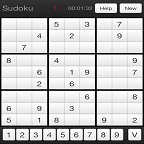
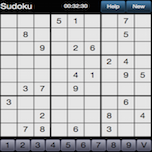
1.0.0

diff --git a/app/sass/sass/_sudoku.scss b/app/sass/sass/_sudoku.scss
@@ -2,7 +2,12 @@
 $width: 316px;
 //$width: 500px;
 $border-width: 1px;
-$font-size: $width / 9 * 0.45;
+$font-size: $width / 9 * 0.55;
+
+$color-primary: #2C506E;
+$color-secondar: #747690;
+$color-light: darken(white, 10%);
+$color-error: #812500;
 
 // Reset
 body, div, li, ul {
@@ -14,7 +19,7 @@ body, div, li, ul {
 @mixin btn($bg-color, $color: black) {
     background: linear-gradient(lighten($bg-color, 20%), darken($bg-color, 20%));    
     border: solid $border-width  $bg-color;
-    border-radius: 5px;
+    border-radius: 3px;
     color: $color;
 }
 
@@ -35,45 +40,48 @@ body, div, li, ul {
 
 // Styling
 body {
+    background-color: black;
+    font-family: 'Helvetica Neue', Helvetica, Arial, sans-serif;    
     margin-top: $width / 9;
     margin-left: auto;
     margin-right: auto;
     width: $width;
-    background-color: black;
     
     .menu {
         // $border-width * 3 creates a little space betwen the buttons
         $button-width: $width * 1.5 / 9 - $border-width * 3;
-        $button-color: #0174DF;
+        $button-color: $color-primary;
         $height: $width / 9 * 0.8;
         
+        color: $color-light;
         width: $width;
         height: $width / 9;
         
         .brand {
             @include rectangle($width * 2 / 9, $height);
             text-align: left;
-            color: white;
         }
         .errors {
             @include rectangle($width * 1 / 9, $height);
-            color: white;
+            font-size: $font-size * 0.65;
         }
         .clock {
             @include rectangle($width * 3 / 9, $height);
-            color: white;            
+            font-size: $font-size * 0.65;
         }
         .help {
-            @include button($button-width, $height, $button-color, white);
+            @include button($button-width, $height, $button-color, $color-light);
+            font-size: $font-size * 0.65;
         }
         .new {
-            @include button($button-width, $height, $button-color, white, right);
+            @include button($button-width, $height, $button-color, $color-light, right);
+            font-size: $font-size * 0.65;
         }
     }    
 
     .sudoku {
         // background-image: url("../images/grid.jpg");
-        background-color: white;
+        background-color: $color-light;
         background-size: $width $width;
         width: $width;
         height: $width;
@@ -91,19 +99,20 @@ body {
                 .note {
                     @include rectangle($note-width, note-width);
                     font-size: $note-width;
+                    font-weight: bold;
                 }
             }
         }
         
         .error {
-            $error-color: #FF0040;
-            background: linear-gradient(lighten($error-color, 20%), darken($error-color, 20%));                
+            $color-error: $color-error;
+            background: linear-gradient(lighten($color-error, 20%), darken($color-error, 20%));                
         }
 
     }
 
     .controllers {
-        $button-color: #cede85;
+        $button-color: $color-secondar;
         $margin-right: 2px;
         $button-width: ($width - $border-width * 20 - $margin-right * 9) / 10;
 
@@ -117,7 +126,7 @@ body {
         }
 
         .selected-number {
-            @include button($button-width, $button-width, #0174DF, white);
+            @include button($button-width, $button-width, $color-primary, $color-light);
         }
 
         .selector-V {
@@ -125,7 +134,7 @@ body {
         }
 
         .selector-N {
-            @include button($button-width, $button-width, #0174DF, white, right);
+            @include button($button-width, $button-width, $color-primary, $color-light, right);
         }        
     }    
 }

diff --git a/gulpfile.js b/gulpfile.js
@@ -32,10 +32,10 @@ gulp.task('default', ['build', 'watch'], function() {
 gulp.task('dist', ['build'], function () {
     gulp.src(['app/index.html'])
         .pipe(replace(/\x3C!-- *(\x3Chtml manifest[^-]+).*/, '$1'))
-        .pipe(gulp.dest(buildDir));
+        .pipe(gulp.dest(distDir));
         
-    return gulp.src('build/**/*')
-        .pipe(zip('sudoku.war'))
+    return gulp.src(['build/**/*', '!build/index.html'])
+    //     // .pipe(zip('sudoku.war'))
         .pipe(gulp.dest(distDir));
 });
 
